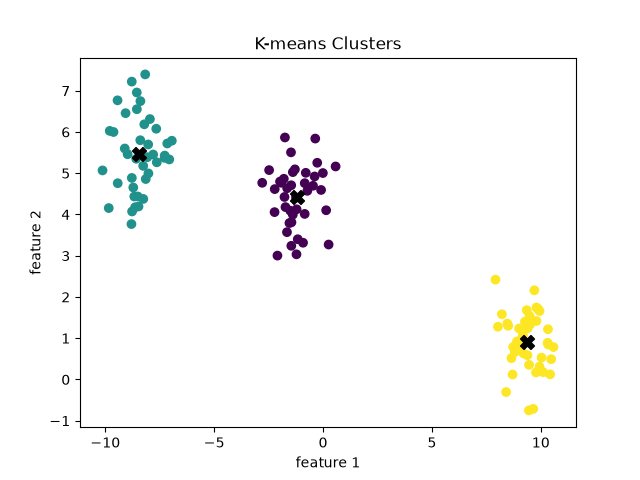
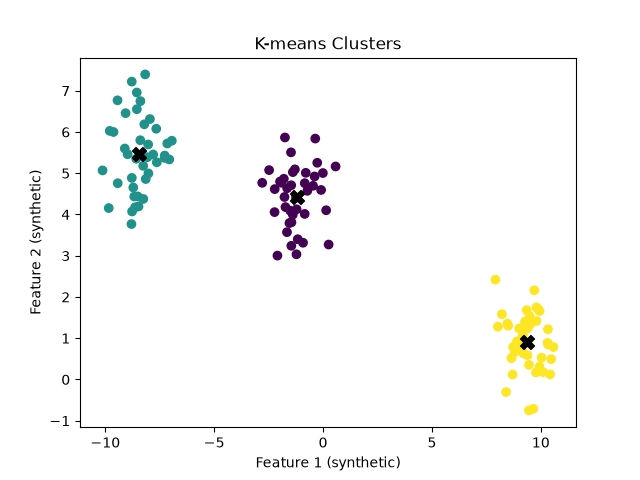
assingnment2 final3

Changed region(s): [[0.4062, 0.9375, 0.625, 1.0], [0.0312, 0.3438, 0.0625, 0.6562]]

diff --git a/assignments_02/warmup_02.py b/assignments_02/warmup_02.py
@@ -23,10 +23,10 @@ model.fit(years, salary) # (x, y)
 
 year4= model.predict([[4]])[0] # x = 4
 year8= model.predict([[8]])[0] # x = 8
-print(f"The expected salary for someone working 4 years is ${year4:,.2f}") # --- :,.2ft = thousands and decimal place separator
+print(f"The expected salary for someone working 4 years is ${year4:,.2f}")
 print(f"The expected salary for someone working 8 years is ${year8:,.2f}")
-print(f" The model coefficient is: {model.coef_[0]:,.2f}")
-print(f"The model intercept is: {model.intercept_:.2f}")
+print(f"The model coefficient is: {model.coef_[0]:,.2f}")
+print(f"The model intercept is: {model.intercept_:,.2f}")
 
 # Q2
 x = np.array([10, 20, 30, 40, 50])
@@ -51,8 +51,8 @@ plt.figure()
 plt.scatter(X_clusters[:,0], X_clusters[:,1] ,c=labels)
 plt.scatter(kmeans.cluster_centers_[:,0],kmeans.cluster_centers_[:,1], marker="X",s=100, c="black")
 plt.title("K-means Clusters")
-plt.xlabel("feature 1")
-plt.ylabel("feature 2")
+plt.xlabel("Feature 1 (synthetic)")
+plt.ylabel("Feature 2 (synthetic)")
 plt.savefig(os.path.join(OUT, "kmeans_clusters.png"))
 plt.close()
 
